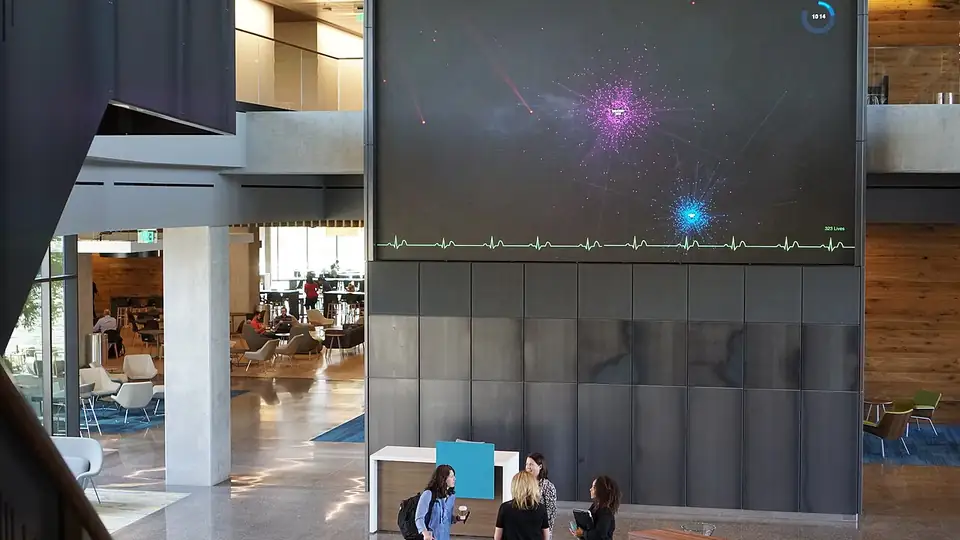
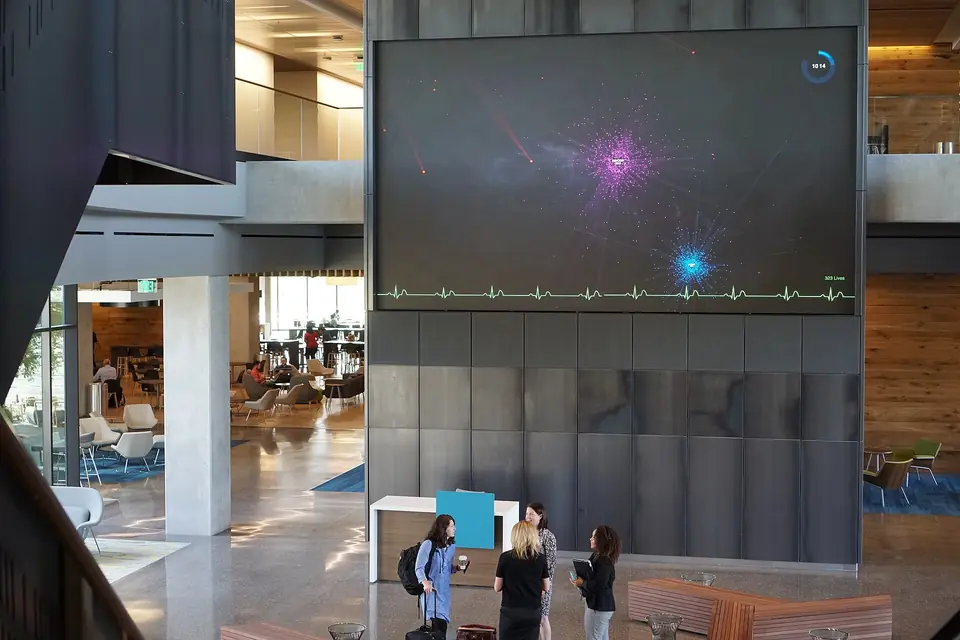
Show the Innovations Campus lobby photo uncropped

diff --git a/index.html b/index.html
@@ -370,8 +370,8 @@
                   <h3 class="case-title">Both sides of the table</h3>
                   <p class="case-scope">Implementation Consultant at Oracle Health (formerly Cerner), then Program Analyst on the VA's EHR modernization through Aptive Resources.</p>
                   <figure class="case-photo">
-                    <img src="/assets/oracle-health-campus.webp?v=1" alt="The lobby of a glass-and-concrete office building, where a wall-sized screen shows a heartbeat line under a glowing star field" width="960" height="540" loading="lazy" decoding="async">
-                    <figcaption>The Innovations Campus lobby in Kansas City, from when Oracle Health was Cerner. Photo: <a href="https://commons.wikimedia.org/wiki/File:Innovations_first_floor.jpg" target="_blank" rel="noopener">&ldquo;Innovations first floor&rdquo;</a> by Hookmeupbarb, <a href="https://creativecommons.org/licenses/by-sa/4.0/" target="_blank" rel="noopener">CC BY-SA 4.0</a>, cropped</figcaption>
+                    <img src="/assets/oracle-health-campus.webp?v=2" alt="The lobby of a glass-and-concrete office building, where a wall-sized screen shows a heartbeat line under a glowing star field" width="960" height="640" loading="lazy" decoding="async">
+                    <figcaption>The Innovations Campus lobby in Kansas City, from when Oracle Health was Cerner. Photo: <a href="https://commons.wikimedia.org/wiki/File:Innovations_first_floor.jpg" target="_blank" rel="noopener">&ldquo;Innovations first floor&rdquo;</a> by Hookmeupbarb, <a href="https://creativecommons.org/licenses/by-sa/4.0/" target="_blank" rel="noopener">CC BY-SA 4.0</a></figcaption>
                   </figure>
                   <p class="case-q">Impact</p>
                   <p class="case-a">Two angles on the same vendor: I've implemented live revenue-cycle systems on-site, and I've sat with the senior clinicians who shaped what the program had to deliver. The Cerner side was volume &ndash; 16 migrations, each carried through to first clean claims and posted payments. The VA side was access and judgment, turning what veteran care actually needed into prioritized requirements.</p>

diff --git a/README.md b/README.md
@@ -50,7 +50,7 @@ Feature branches are cut from the tip of `dev`, never from `main` or a stale anc
 Third-party images keep their own terms and are not covered by the license below.
 
 - `assets/mizzou-quad.webp`: cropped from ["Jesse Hall Aerial"](https://commons.wikimedia.org/wiki/File:Jesse_Hall_Aerial.jpg) by [Lectrician2](https://commons.wikimedia.org/wiki/User:Lectrician2), licensed [CC BY-SA 4.0](https://creativecommons.org/licenses/by-sa/4.0/). The cropped version is shared under the same license.
-- `assets/oracle-health-campus.webp`: cropped from ["Innovations first floor"](https://commons.wikimedia.org/wiki/File:Innovations_first_floor.jpg) by Hookmeupbarb, licensed [CC BY-SA 4.0](https://creativecommons.org/licenses/by-sa/4.0/). The cropped version is shared under the same license.
+- `assets/oracle-health-campus.webp`: ["Innovations first floor"](https://commons.wikimedia.org/wiki/File:Innovations_first_floor.jpg) by Hookmeupbarb, licensed [CC BY-SA 4.0](https://creativecommons.org/licenses/by-sa/4.0/), shown in full and resized.
 - `assets/aurora-install.webp`: © EnergyLink, from its [City of Aurora case study](https://goenergylink.com/case-studies/city-of-aurora/).
 - `assets/logos/`: trademarks of WellSky, Aptive Resources, Oracle and EnergyLink, used only to identify former and current employers. The Oracle mark is from [Simple Icons](https://simpleicons.org/) (CC0).
 
